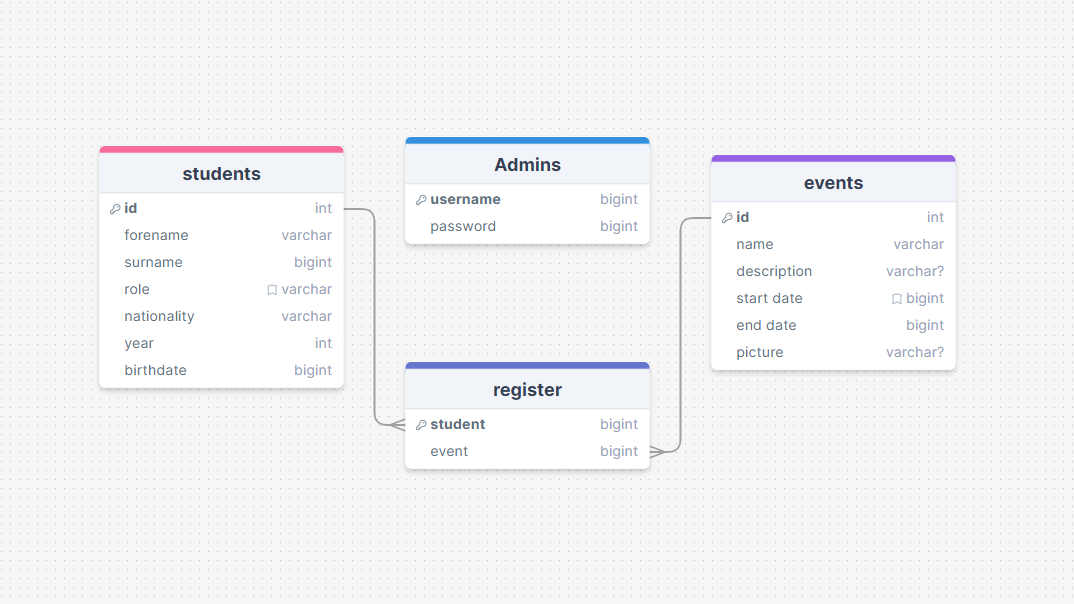
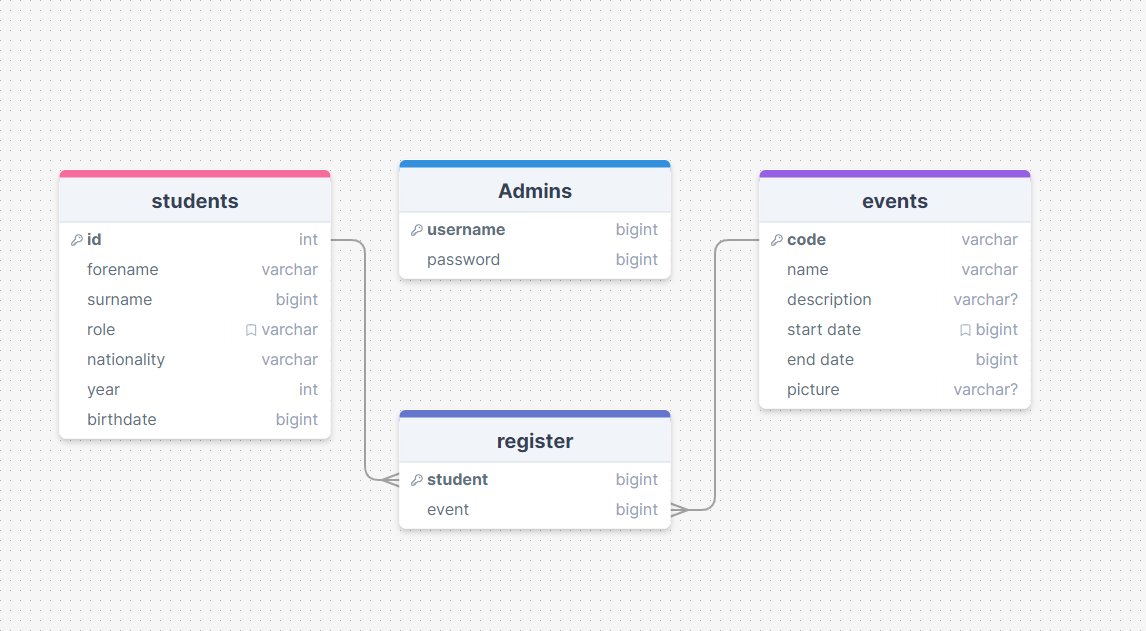
23/05/24

diff --git a/Development.md b/Development.md
@@ -43,17 +43,26 @@ I will need to get feedback from my end-user about both the flow and the DB. I a
 
 ### 21/05/2024
 
-I asked about how admin portal and added it to db
+I asked about how admin portal would looked like and added it to drawsql. I also change 'id' column of events table into 'code' as an events could repeat my times during school year. 
+
 ![Design Database V.2](images/db2.png)
 
-Replace this text with brief notes describing what you worked on, any decisions you made, any changes to designs, etc. Add screenshots / links to other media to illustrate your notes where necessary.
+Added a table with admin username and password that will be used by international staffs and leaders.
 
-### DATE HERE
+### 23/05/2024
 
-Replace this test with what you are working on
+On the 21/05/2024 after school I have discussed with my client about the progress I have done so far and got some feedback.
 
-Replace this text with brief notes describing what you worked on, any decisions you made, any changes to designs, etc. Add screenshots / links to other media to illustrate your notes where necessary.
+My client said that it would be a good idea to add a page where a student could view all their sign ups and manage it there for easier usage. To do that and preventing impersonation we have decided that we should make the system have a log in function.
+>Everyone should know their school password and it wouldn't be too hard to use eventhough they have to log in.
 
+is what my client said.
+
+I think that a log in function would be very nice. However, one problem I can think of is that what if a student haven't been register into the system then what would happen. I don't think it would be much of a problem though as I could add a form to register that will need admin approval before it can update into the database. Otherwise the student could talk to international staff and we can add the student in.
+
+My client have approved my database tables and also provided my with the color pallette that they would like the system. (add pic)
+
+I would need to redesign my user flow to have sign-in function that will differ in the access within the system between students and admin.
 ### DATE HERE
 
 Replace this test with what you are working on
